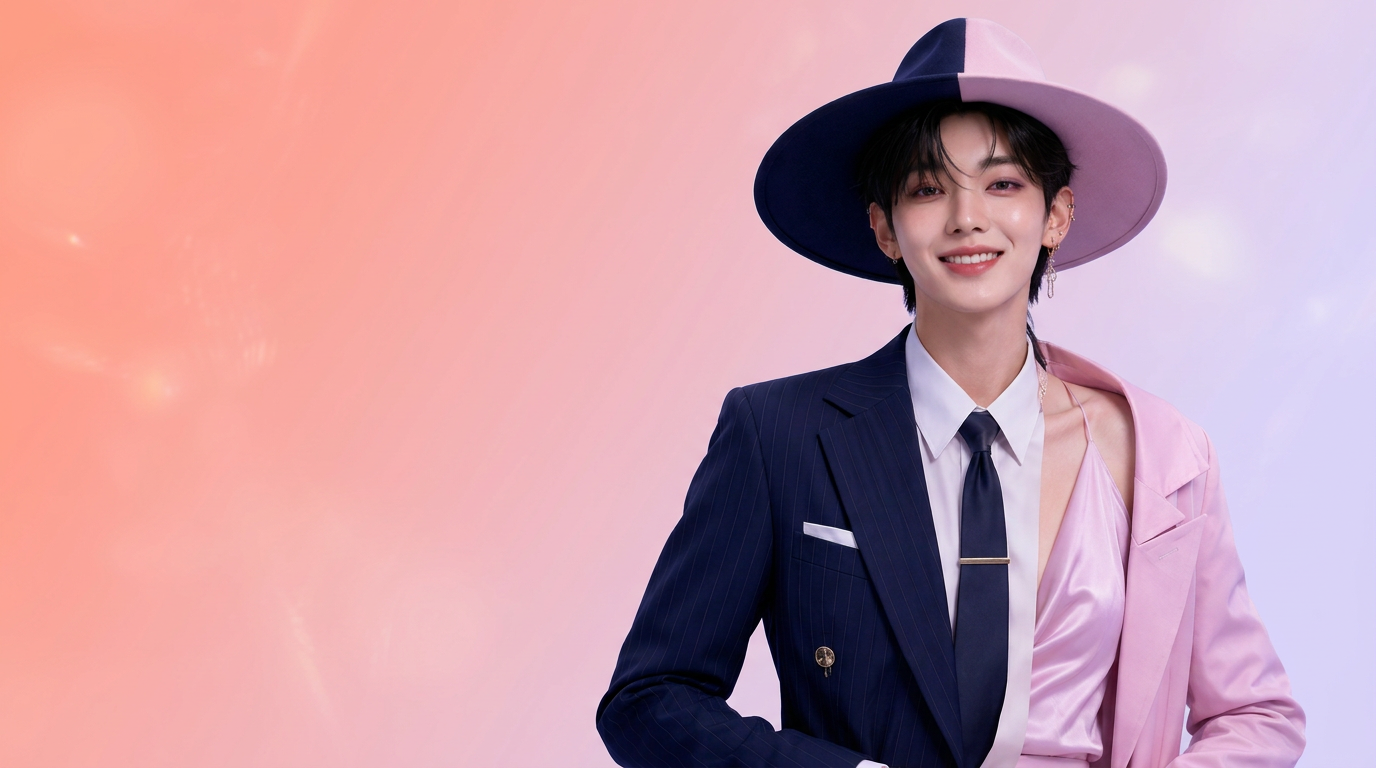
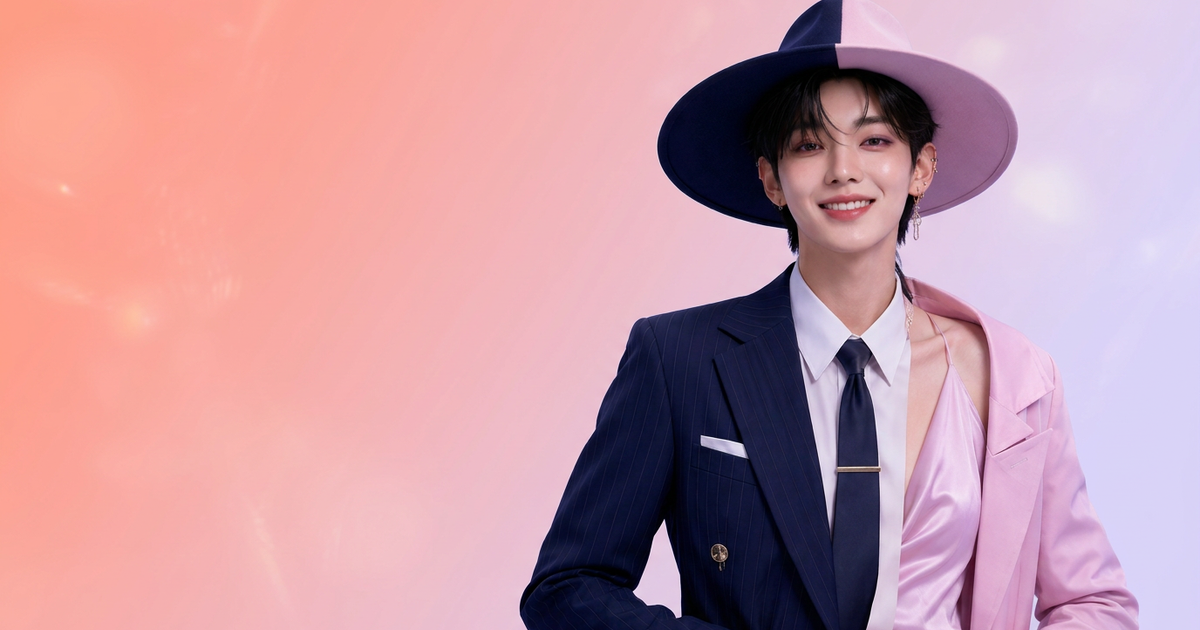
Changes

diff --git a/roadmap.md b/roadmap.md
@@ -14,7 +14,7 @@
 - [ ] (보류) knowledge.ts 축약 — 품질 트레이드오프라 사용자 판단 대기
 - [ ] (대기) rss.xml 소개글 문구 업데이트
 - [ ] (대기) 사이트 제목 변경 문구 입력
-- [ ] 홈 소셜 이미지를 쇼미 캐릭터로 재생성·교체
+- [x] 홈 소셜 이미지를 쇼미 캐릭터로 재생성·교체
 - [ ] (대기) 공식 소개문구 ko/en 사용자 입력 → Shomi 반영
 - [ ] 서비스 규정 페이지 + 채팅/홈 링크, 요금제 자동 반영
 - [ ] Shomi 정책 위반·범위 밖·민감정보 질문 차단
